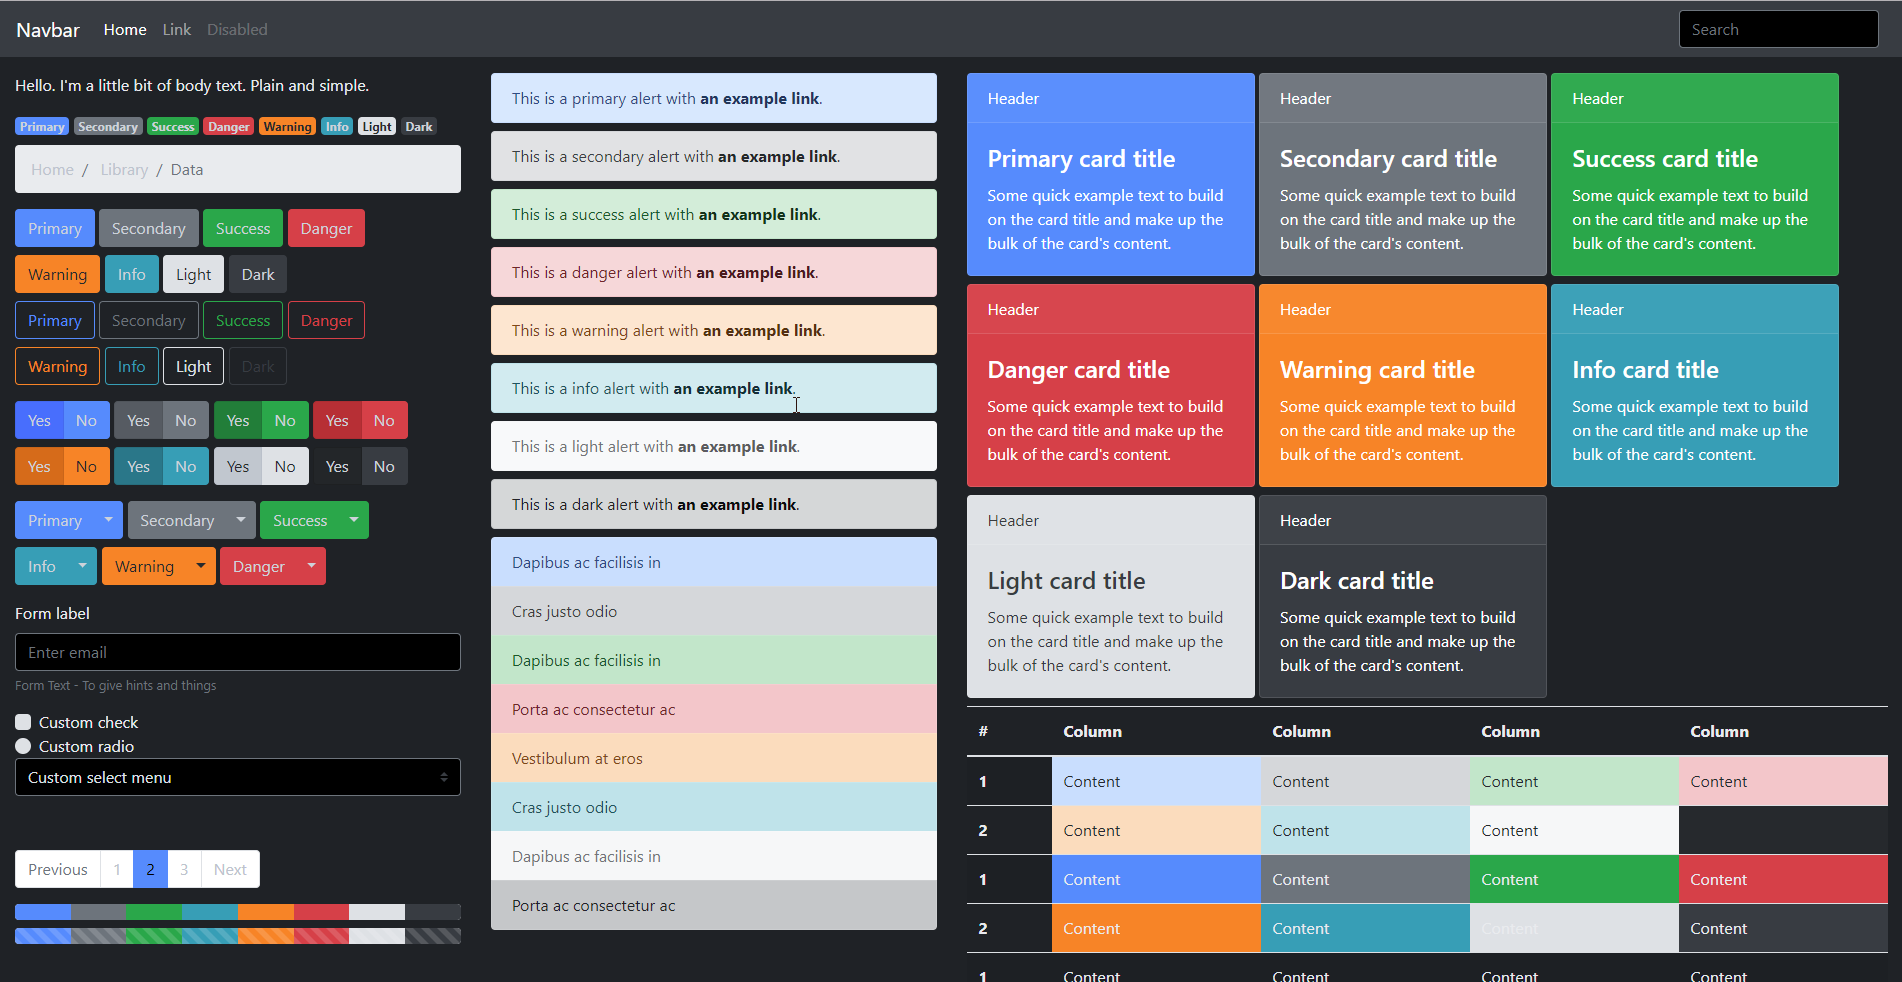
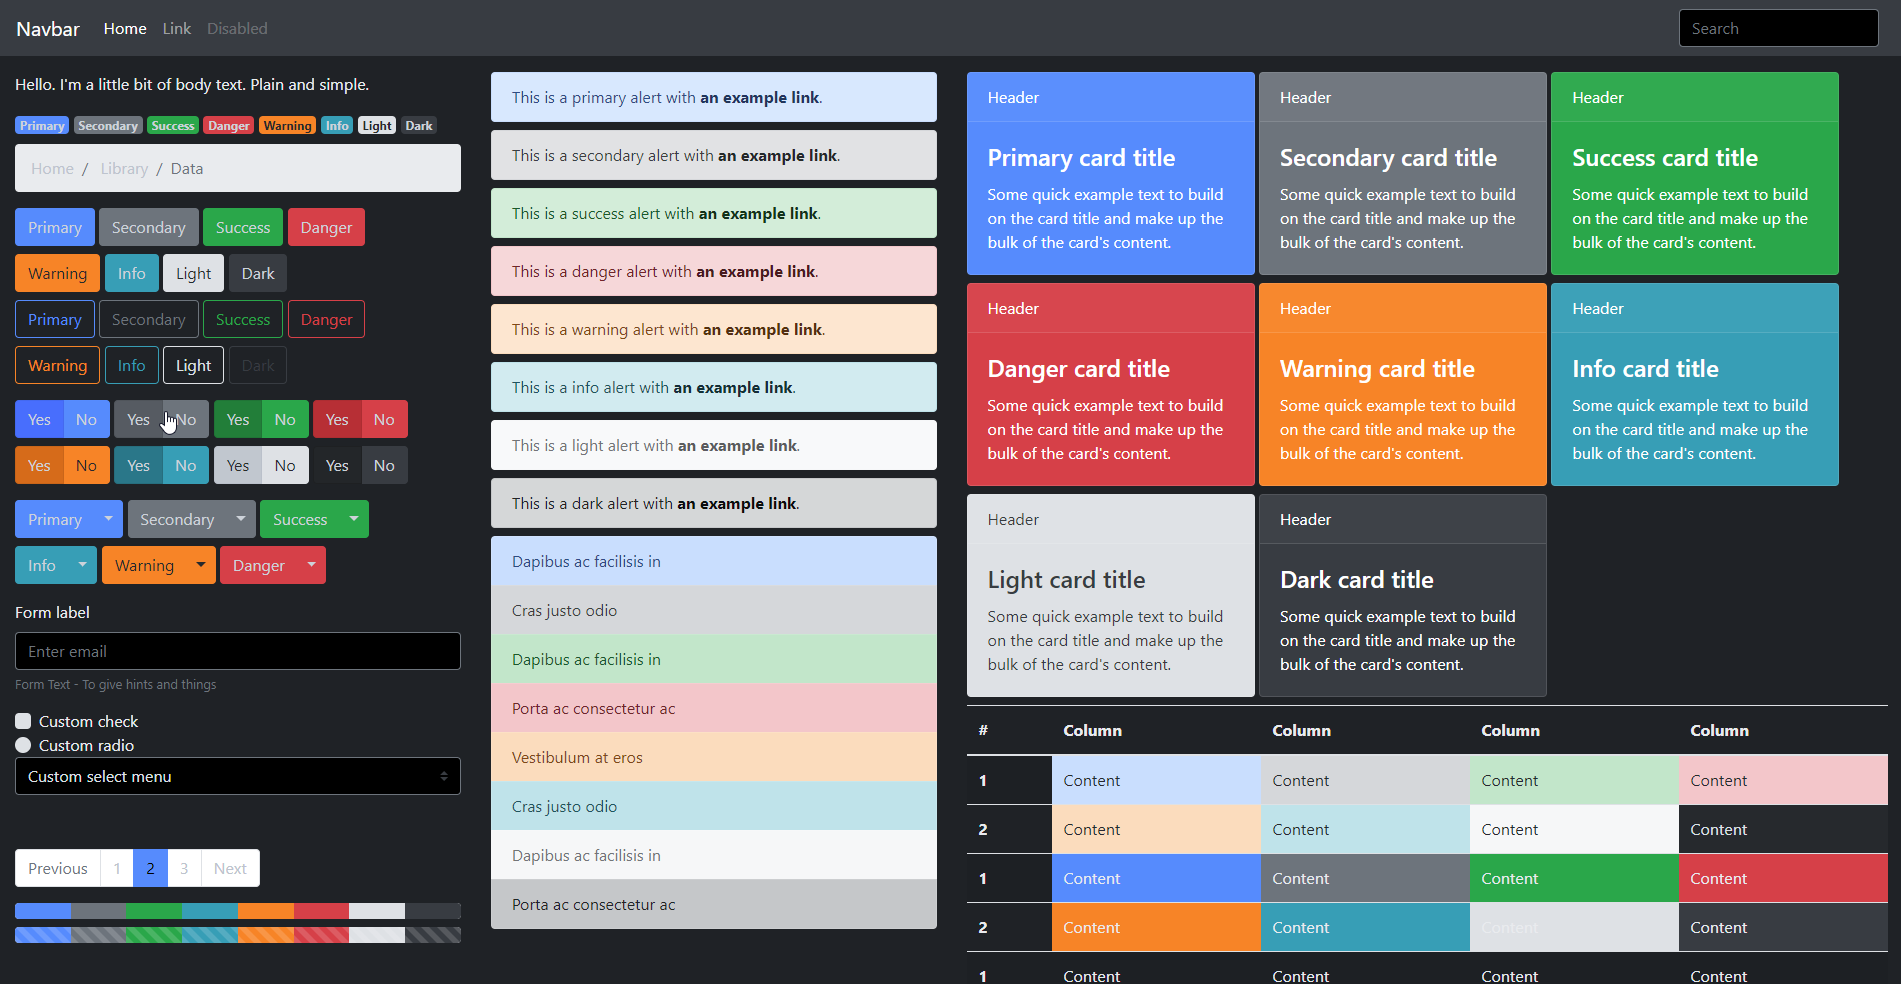
Updated tables

diff --git a/scss/_dark-variables.scss b/scss/_dark-variables.scss
@@ -118,13 +118,12 @@ $close-text-shadow:             0 1px 0 $black;
 // $table-head-bg:               $gray-200 !default;
 // $table-head-color:            $gray-700 !default;
 
-// $table-dark-bg:               $gray-900 !default;
-// $table-dark-accent-bg:        rgba($white, .05) !default;
-// $table-dark-hover-bg:         rgba($white, .075) !default;
-// $table-dark-border-color:     lighten($gray-900, 7.5%) !default;
-// $table-dark-color:            $body-bg !default;
-$table-dark-color:            $body-color;
+// $table-dark-bg:                 $gray-900 !default;
+// $table-dark-accent-bg:          rgba($white, .05);
+// $table-dark-hover-bg:           rgba($white, .075);
+// $table-dark-border-color:       lighten($gray-900, 7.5%);
+// $table-dark-color:              $body-bg;
+$table-dark-color:            $gray-300;
 
 // $table-caption-color:         $text-muted !default;
-
 

diff --git a/scss/bootstrap-dark.scss b/scss/bootstrap-dark.scss
@@ -1,11 +1,5 @@
-/*! My very own Bootstrap 4 Theme
- *
- *  Built on top of Bootstrap 4 (https://getbootstrap.com)
- *  Built with the Bootstrap Theme Kit by HackerThemes (https://hackerthemes.com)
- */
  @import 'dark-variables';
  @import 'dark-mixins';
-//@import '../node_modules/bootstrap/scss/bootstrap';
 
 @import "../node_modules/bootstrap/scss/functions";
 @import "../node_modules/bootstrap/scss/variables";

diff --git a/scss/_dark-tables.scss b/scss/_dark-tables.scss
@@ -5,6 +5,11 @@
 
 @each $color, $value in $theme-colors {
     @include dark-table-row-variant($color, theme-color-level($color, -9));
-  }
-  
-  @include dark-table-row-variant(active, $table-active-bg);
+}
+
+@include dark-table-row-variant(active, $table-active-bg);
+
+
+.table-dark {
+    color: $table-dark-color;
+}  
